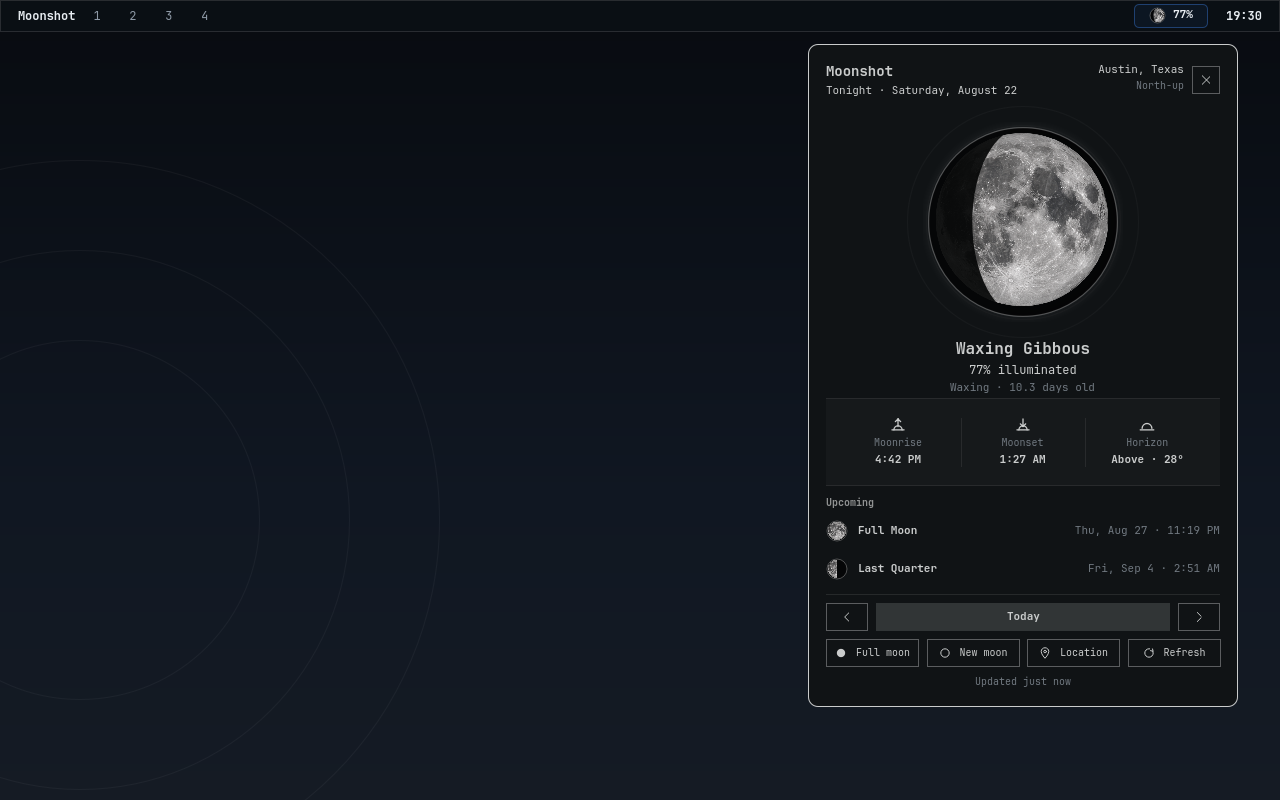
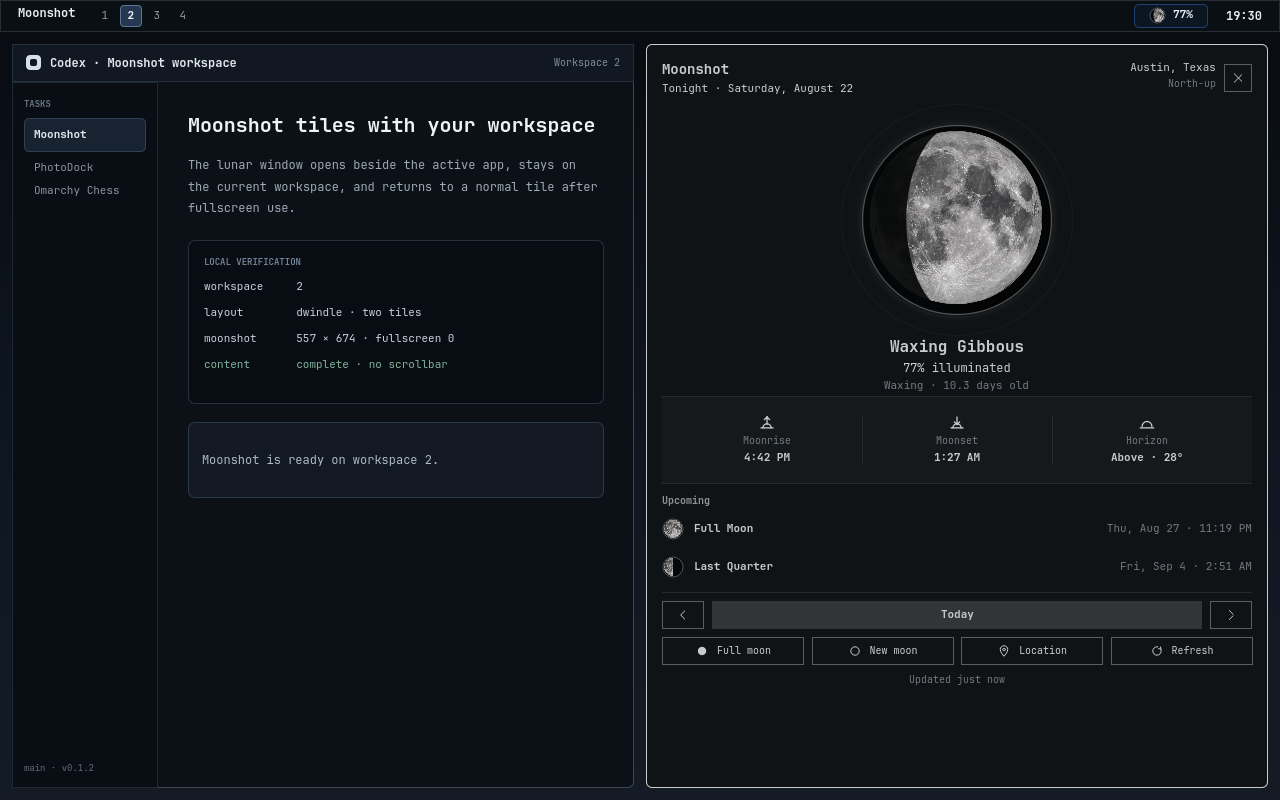
docs: show tiled workspace preview

diff --git a/tests/qml/PreviewScene.qml b/tests/qml/PreviewScene.qml
@@ -61,23 +61,6 @@ Window {
       }
     }
 
-    // Quiet orbit motif in the desktop context; the plugin itself never
-    // changes the user's wallpaper.
-    Repeater {
-      model: [720, 540, 360]
-      delegate: Rectangle {
-        required property int modelData
-        width: modelData
-        height: width
-        x: 80 - width / 2
-        y: 520 - height / 2
-        radius: width / 2
-        color: "transparent"
-        border.width: 1
-        border.color: "#0bffffff"
-      }
-    }
-
     Rectangle {
       id: barMock
       width: parent.width
@@ -99,11 +82,33 @@ Window {
           font.bold: true
           color: "#e8edf2"
         }
-        Text {
-          text: "1    2    3    4"
-          font.family: Style.font.family
-          font.pixelSize: 12
-          color: "#8d98a5"
+        Row {
+          anchors.verticalCenter: parent.verticalCenter
+          spacing: 4
+
+          Repeater {
+            model: [1, 2, 3, 4]
+
+            delegate: Rectangle {
+              id: workspaceChip
+              required property int modelData
+              width: 22
+              height: 22
+              radius: 4
+              color: modelData === 2 ? "#24384f" : "transparent"
+              border.width: modelData === 2 ? 1 : 0
+              border.color: "#5d7897"
+
+              Text {
+                anchors.centerIn: parent
+                text: workspaceChip.modelData
+                font.family: Style.font.family
+                font.pixelSize: 11
+                font.bold: workspaceChip.modelData === 2
+                color: workspaceChip.modelData === 2 ? "#f0f4f8" : "#8d98a5"
+              }
+            }
+          }
         }
       }
 
@@ -151,24 +156,270 @@ Window {
       }
     }
 
-    BorderSurface {
-      id: panelMock
-      width: 430
-      height: Math.min(738, previewContent.implicitHeight + 36)
+    Rectangle {
+      id: codexMock
       anchors.top: barMock.bottom
       anchors.topMargin: 12
+      anchors.bottom: parent.bottom
+      anchors.bottomMargin: 12
+      anchors.left: parent.left
+      anchors.leftMargin: 12
+      width: (parent.width - 36) / 2
+      radius: 6
+      color: "#0c1118"
+      border.width: 1
+      border.color: "#3b4654"
+      clip: true
+
+      Rectangle {
+        id: codexTitleBar
+        anchors.top: parent.top
+        anchors.left: parent.left
+        anchors.right: parent.right
+        height: 38
+        color: "#111821"
+        border.width: 1
+        border.color: "#24303d"
+
+        Row {
+          anchors.left: parent.left
+          anchors.leftMargin: 14
+          anchors.verticalCenter: parent.verticalCenter
+          spacing: 9
+
+          Rectangle {
+            width: 15
+            height: 15
+            radius: 4
+            color: "#d7e0e8"
+
+            Rectangle {
+              anchors.centerIn: parent
+              width: 7
+              height: 7
+              radius: 2
+              color: codexTitleBar.color
+            }
+          }
+
+          Text {
+            text: "Codex · Moonshot workspace"
+            font.family: Style.font.family
+            font.pixelSize: 12
+            font.bold: true
+            color: "#e2e8ef"
+          }
+        }
+
+        Text {
+          anchors.right: parent.right
+          anchors.rightMargin: 14
+          anchors.verticalCenter: parent.verticalCenter
+          text: "Workspace 2"
+          font.family: Style.font.family
+          font.pixelSize: 10
+          color: "#7f8b98"
+        }
+      }
+
+      Rectangle {
+        id: codexSidebar
+        anchors.top: codexTitleBar.bottom
+        anchors.bottom: parent.bottom
+        anchors.left: parent.left
+        width: 146
+        color: "#090e14"
+        border.width: 1
+        border.color: "#202a35"
+
+        Column {
+          anchors.top: parent.top
+          anchors.topMargin: 16
+          anchors.left: parent.left
+          anchors.leftMargin: 12
+          anchors.right: parent.right
+          anchors.rightMargin: 12
+          spacing: 8
+
+          Text {
+            text: "TASKS"
+            font.family: Style.font.family
+            font.pixelSize: 9
+            font.bold: true
+            color: "#687584"
+          }
+
+          Rectangle {
+            width: parent.width
+            height: 34
+            radius: 5
+            color: "#172331"
+            border.width: 1
+            border.color: "#304156"
+
+            Text {
+              anchors.left: parent.left
+              anchors.leftMargin: 10
+              anchors.verticalCenter: parent.verticalCenter
+              text: "Moonshot"
+              font.family: Style.font.family
+              font.pixelSize: 11
+              font.bold: true
+              color: "#e4eaf0"
+            }
+          }
+
+          Text {
+            text: "PhotoDock"
+            leftPadding: 10
+            font.family: Style.font.family
+            font.pixelSize: 11
+            color: "#8793a0"
+          }
+
+          Text {
+            text: "Omarchy Chess"
+            leftPadding: 10
+            font.family: Style.font.family
+            font.pixelSize: 11
+            color: "#8793a0"
+          }
+        }
+
+        Text {
+          anchors.left: parent.left
+          anchors.leftMargin: 12
+          anchors.bottom: parent.bottom
+          anchors.bottomMargin: 14
+          text: "main · v0.1.2"
+          font.family: Style.font.family
+          font.pixelSize: 9
+          color: "#5f6b78"
+        }
+      }
+
+      Item {
+        anchors.top: codexTitleBar.bottom
+        anchors.bottom: parent.bottom
+        anchors.left: codexSidebar.right
+        anchors.right: parent.right
+
+        Column {
+          anchors.top: parent.top
+          anchors.topMargin: 30
+          anchors.left: parent.left
+          anchors.leftMargin: 30
+          anchors.right: parent.right
+          anchors.rightMargin: 30
+          spacing: 18
+
+          Text {
+            text: "Moonshot tiles with your workspace"
+            font.family: Style.font.family
+            font.pixelSize: 20
+            font.bold: true
+            color: "#edf2f7"
+          }
+
+          Text {
+            width: parent.width
+            text: "The lunar window opens beside the active app, stays on the current workspace, and returns to a normal tile after fullscreen use."
+            wrapMode: Text.WordWrap
+            lineHeight: 1.35
+            font.family: Style.font.family
+            font.pixelSize: 12
+            color: "#9da9b5"
+          }
+
+          Rectangle {
+            width: parent.width
+            height: 164
+            radius: 7
+            color: "#080d13"
+            border.width: 1
+            border.color: "#25313e"
+
+            Column {
+              anchors.fill: parent
+              anchors.margins: 16
+              spacing: 11
+
+              Text {
+                text: "LOCAL VERIFICATION"
+                font.family: Style.font.family
+                font.pixelSize: 9
+                font.bold: true
+                color: "#6f8296"
+              }
+              Text {
+                text: "workspace     2"
+                font.family: Style.font.family
+                font.pixelSize: 11
+                color: "#c7d0da"
+              }
+              Text {
+                text: "layout        dwindle · two tiles"
+                font.family: Style.font.family
+                font.pixelSize: 11
+                color: "#c7d0da"
+              }
+              Text {
+                text: "moonshot      557 × 674 · fullscreen 0"
+                font.family: Style.font.family
+                font.pixelSize: 11
+                color: "#c7d0da"
+              }
+              Text {
+                text: "content       complete · no scrollbar"
+                font.family: Style.font.family
+                font.pixelSize: 11
+                color: "#82b39a"
+              }
+            }
+          }
+
+          Rectangle {
+            width: parent.width
+            height: 76
+            radius: 7
+            color: "#121923"
+            border.width: 1
+            border.color: "#2c3947"
+
+            Text {
+              anchors.fill: parent
+              anchors.margins: 14
+              text: "Moonshot is ready on workspace 2."
+              verticalAlignment: Text.AlignVCenter
+              font.family: Style.font.family
+              font.pixelSize: 12
+              color: "#aeb9c4"
+            }
+          }
+        }
+      }
+    }
+
+    BorderSurface {
+      id: panelMock
+      width: codexMock.width
+      anchors.top: barMock.bottom
+      anchors.topMargin: 12
+      anchors.bottom: parent.bottom
+      anchors.bottomMargin: 12
       anchors.right: parent.right
-      anchors.rightMargin: 42
-      radius: 10
+      anchors.rightMargin: 12
+      radius: 6
       color: Color.popups.background
       borderSpec: Border.surfaceSpec("popups", "border", Color.popups.border, 1)
+      clip: true
 
       MoonshotContent {
         id: previewContent
         anchors.top: parent.top
         anchors.left: parent.left
         anchors.right: parent.right
-        anchors.margins: 18
+        anchors.margins: 16
         model: previewModel
         settings: ({ renderMode: "realistic", reducedMotion: false, timeFormat: "12h" })
       }

diff --git a/README.md b/README.md
@@ -4,7 +4,7 @@
 
 Moonshot places a living lunar indicator in the Omarchy bar and opens a calm, location-aware lunar panel with the current phase, illumination percentage, exact moon age, upcoming major quarter phases, and local moonrise/moonset timings.
 
-![Moonshot Preview](preview.png)
+![Moonshot tiled beside a workspace app with the Omarchy bar visible](preview.png)
 
 ## Features
 
